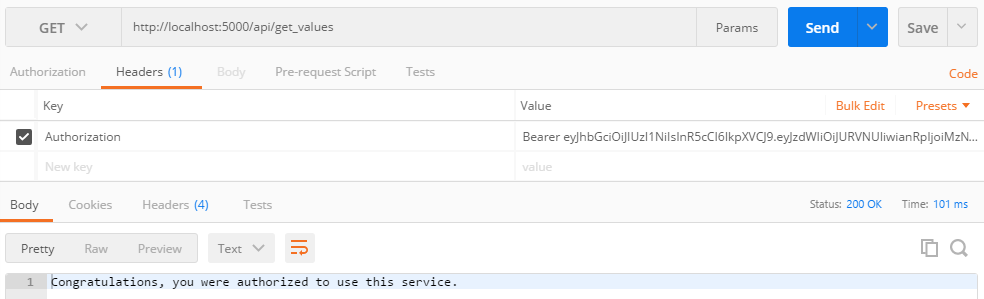
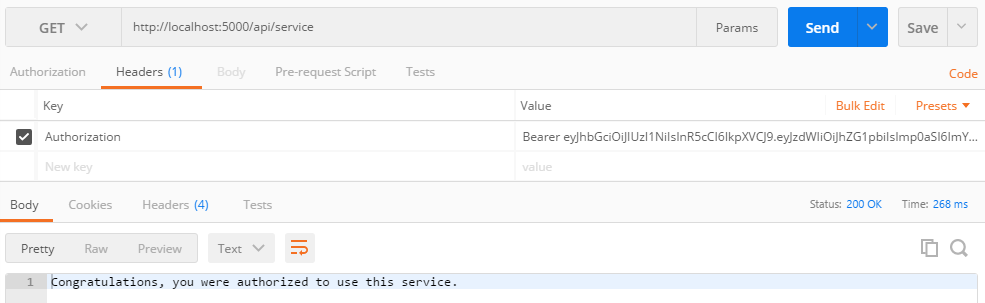
Updated documentation for clarity.

diff --git a/DotNetCoreJwtAuthenticationExample/Authentication/TokenProviderMiddleware.cs b/DotNetCoreJwtAuthenticationExample/Authentication/TokenProviderMiddleware.cs
@@ -86,17 +86,18 @@ namespace DotNetCoreJwtAuthenticationExample
             await context.Response.WriteAsync(JsonConvert.SerializeObject(response, new JsonSerializerSettings { Formatting = Formatting.Indented }));
         }
 
-        // IMPORTANT This function is what validates the users credentials.
+        // IMPORTANT This function is what checks the users credentials and returns the claims they have.
         //
-        // Replace the conditional here with a secure system using either a database where credentials are stored, OAuth, etc.
+        // In a real-world application, replace the conditional here that returns the ClaimsIdentity with a with a secure system
+        // that can you can check the credentials against. An account system hooked to a persisted database and OAuth are good options here.
         private Task<ClaimsIdentity> GetIdentity(string username, string password)
         {
-            if (username == "TEST" && password == "TEST123")
+            if (username == "admin" && password == "hunter2")
             {
                 return Task.FromResult(new ClaimsIdentity(new GenericIdentity(username, "Token"), new Claim[] { }));
             }
 
-            // Credentials are invalid, or account doesn't exist
+            // If the credential check didn't pass, return no claims.
             return Task.FromResult<ClaimsIdentity>(null);
         }
 

diff --git a/DotNetCoreJwtAuthenticationExample/Controllers/ApiController.cs b/DotNetCoreJwtAuthenticationExample/Controllers/ApiController.cs
@@ -1,5 +1,4 @@
-using System.Collections.Generic;
-using Microsoft.AspNetCore.Mvc;
+using Microsoft.AspNetCore.Mvc;
 using Microsoft.AspNetCore.Authorization;
 
 namespace DotNetCoreJwtAuth.Controllers
@@ -7,9 +6,9 @@ namespace DotNetCoreJwtAuth.Controllers
     [Route("api")]
     public class ApiController : Controller
     {
-        // GET api/app
+        // GET api/service
         [HttpGet]
-        [Route("get_values")]
+        [Route("service")]
         [Authorize]
         public string Get()
         {
